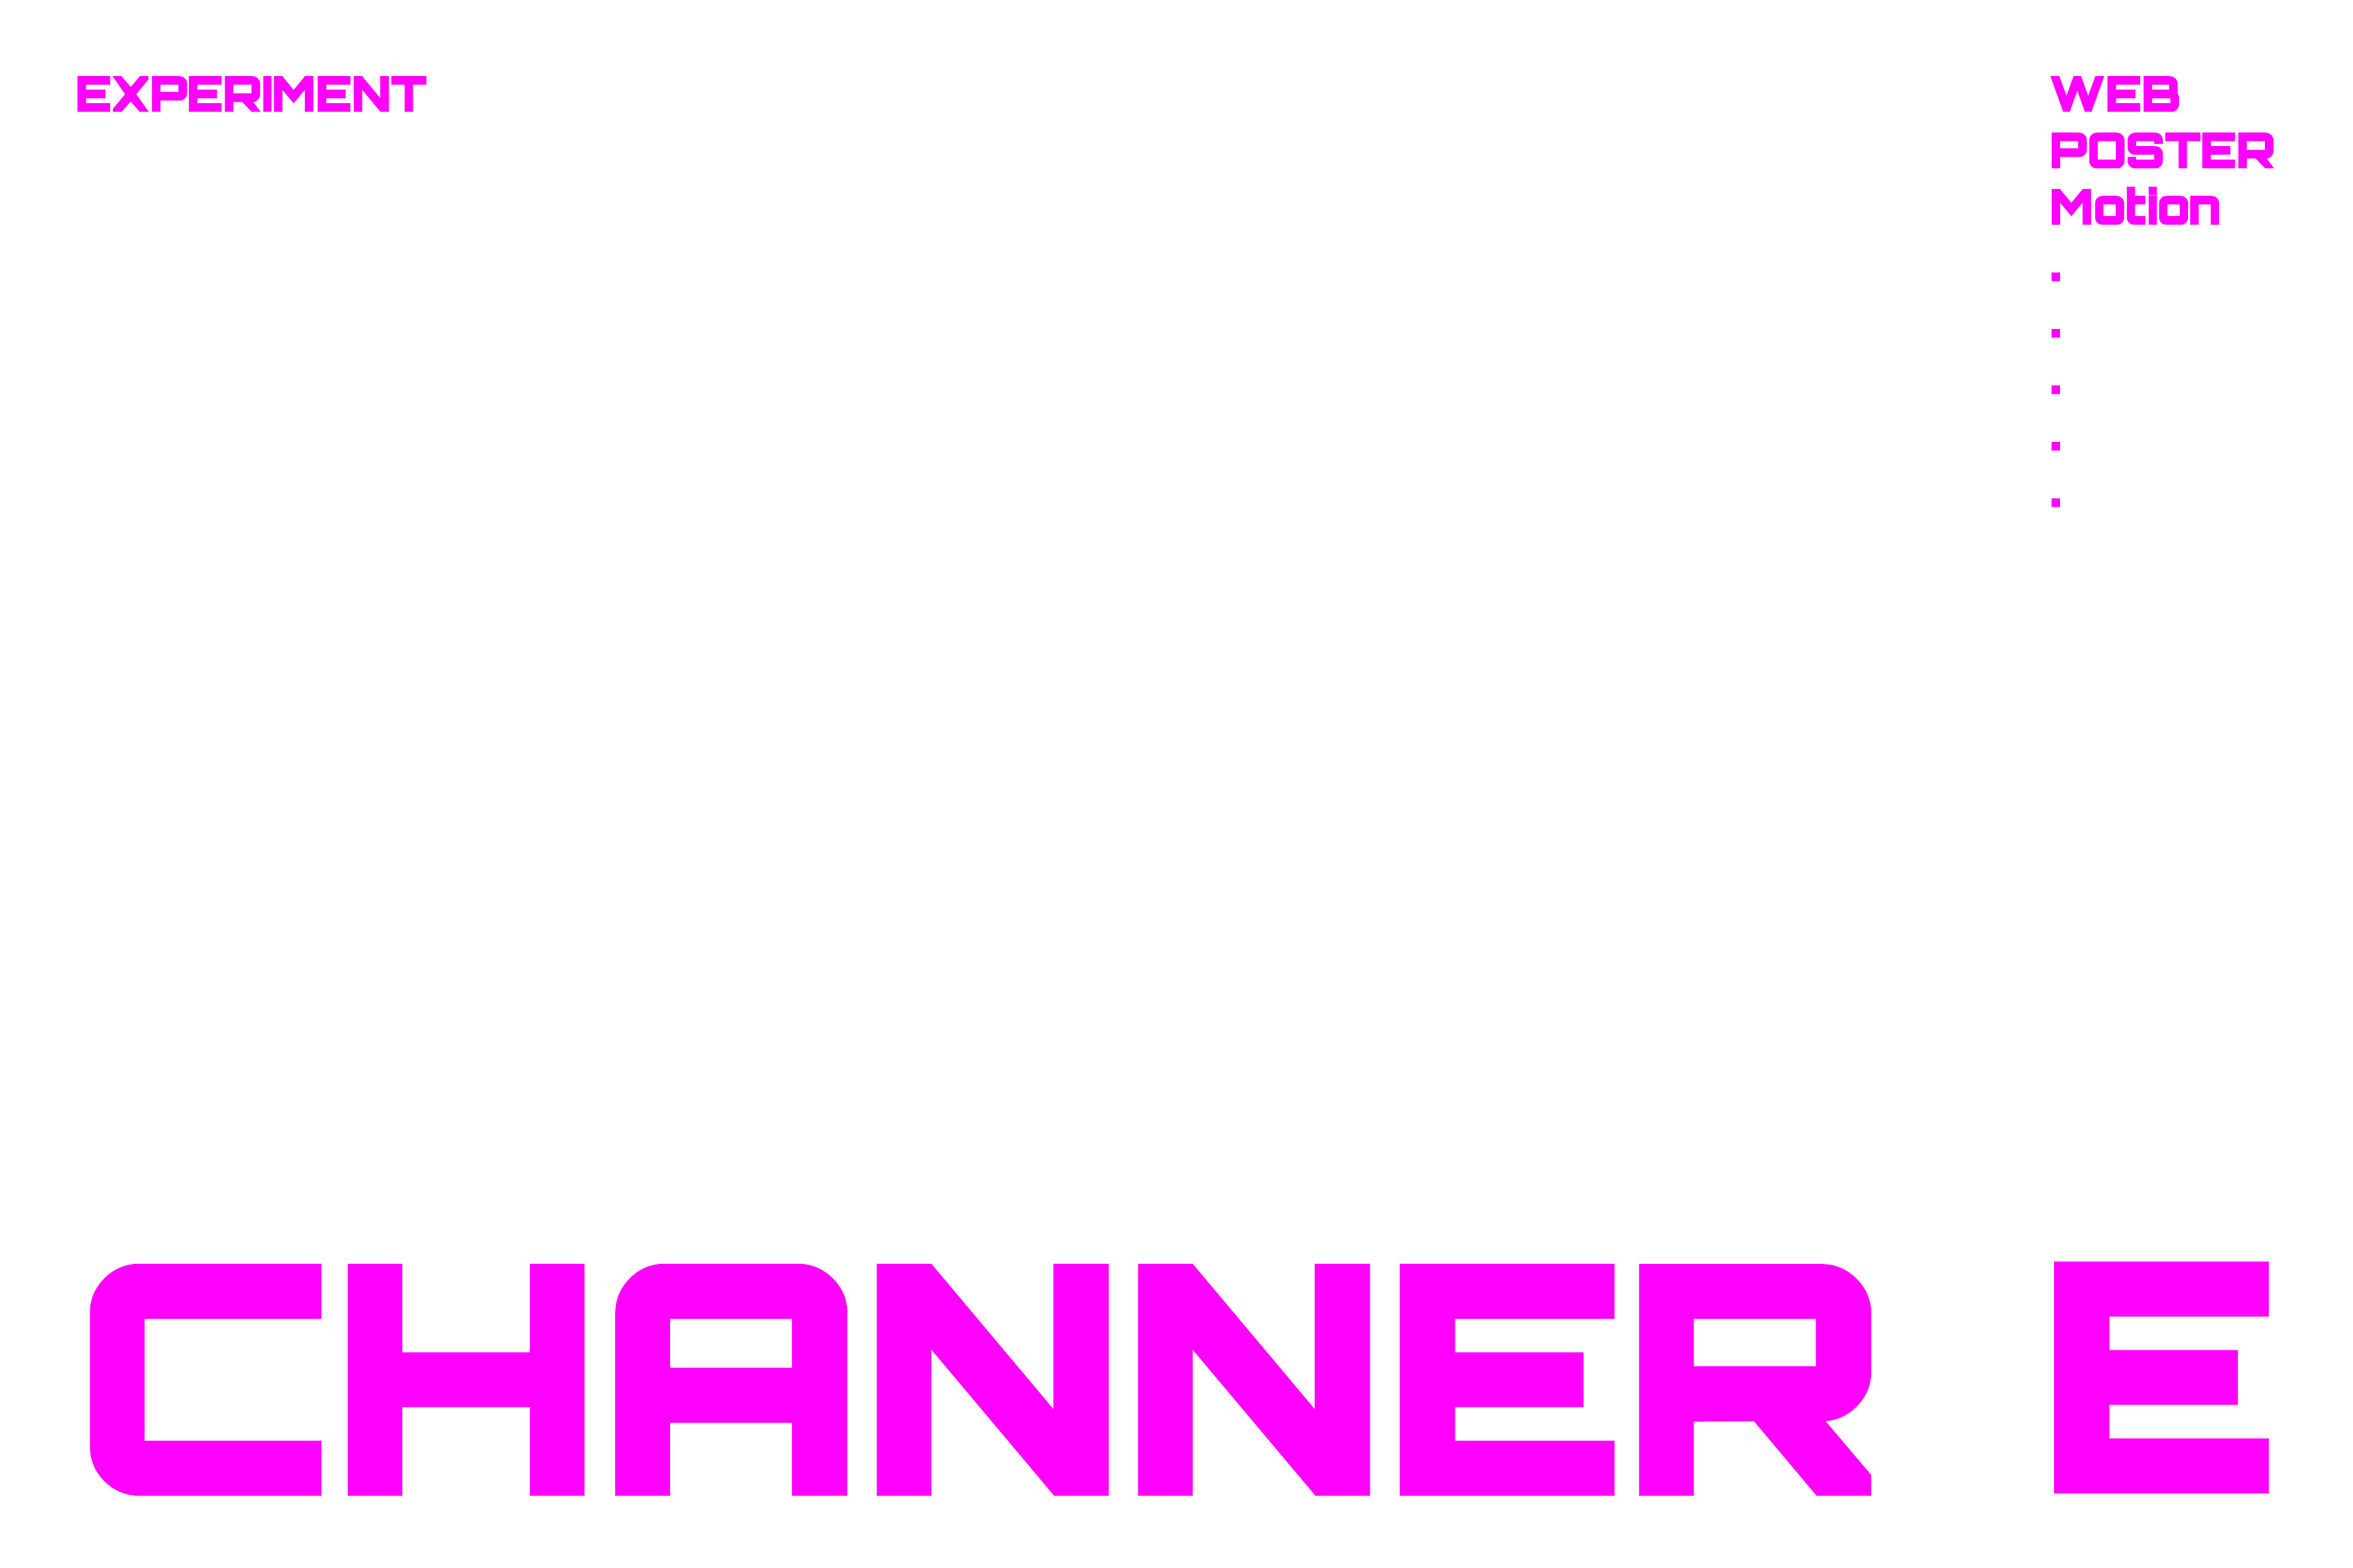
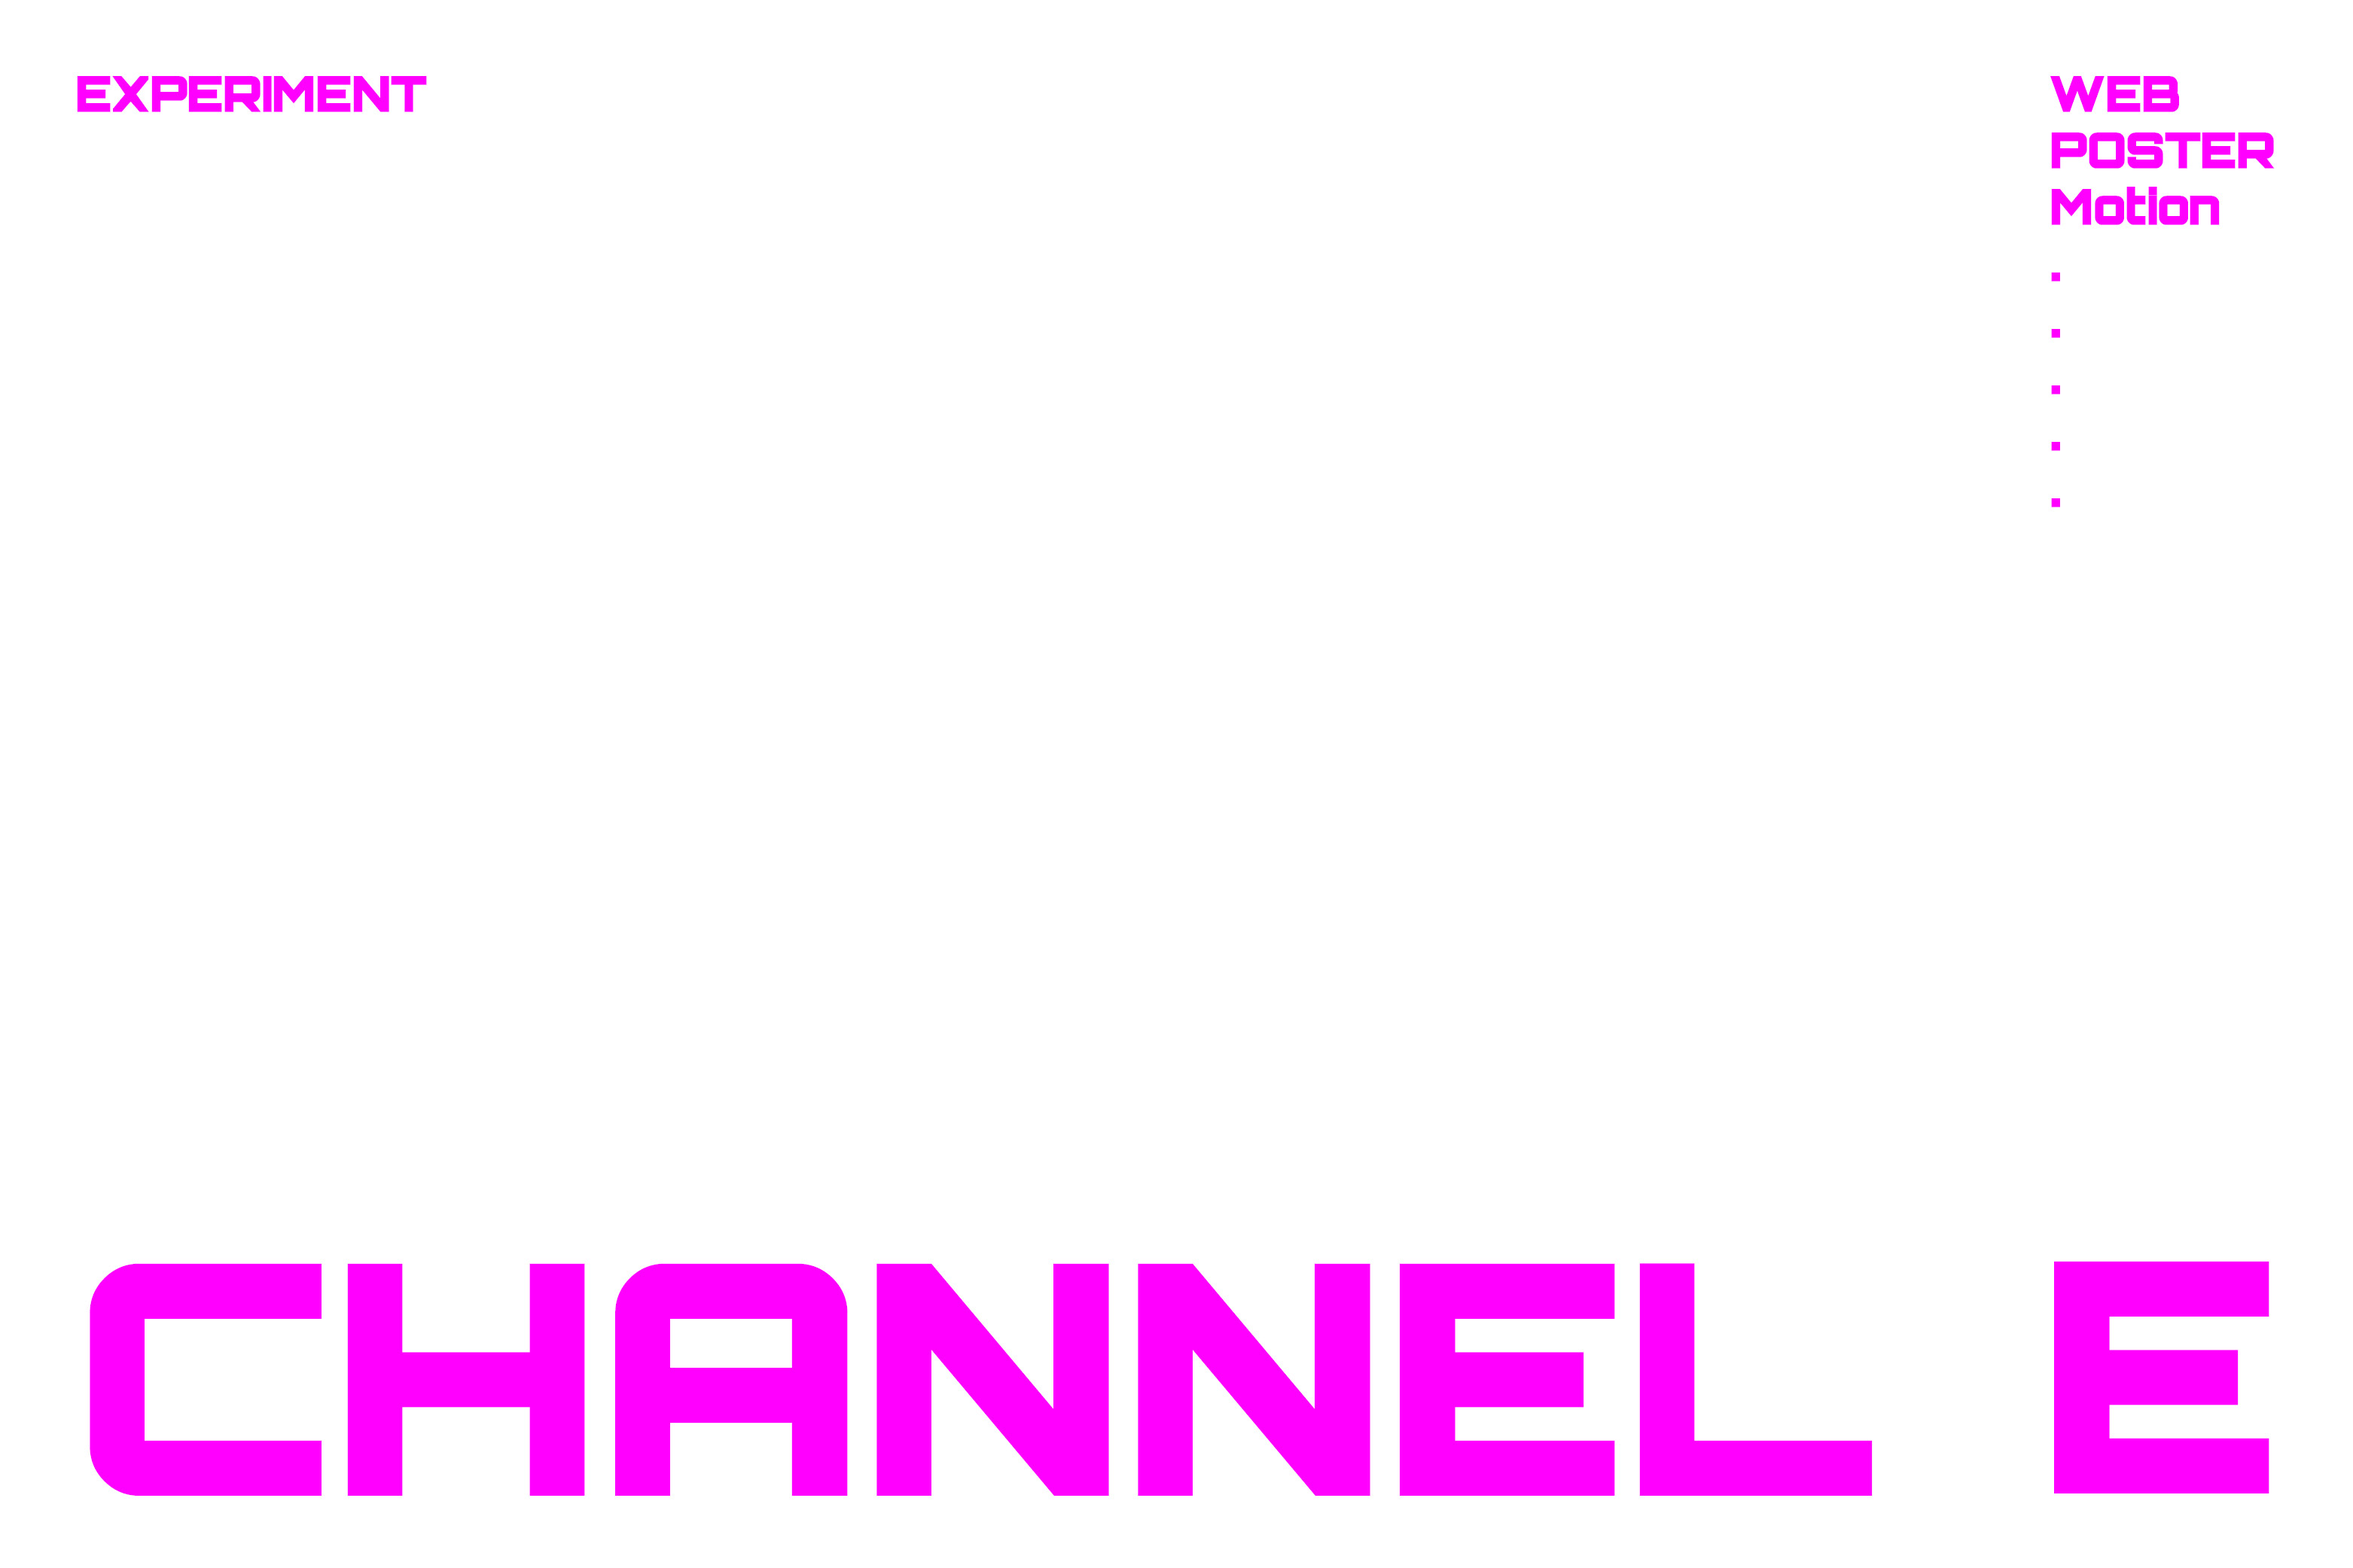
dd

Changed region(s): [[0.7139, 0.7801, 0.807, 0.9674]]

diff --git a/newpage.html b/newpage.html
@@ -66,7 +66,7 @@
                 <a href="https://www.instagram.com/hyees2/">Instagram</a><br>
                 <a href="https://www.linkedin.com/in/yejin-her/">LinkedIn</a>
                 <br><br>
-                <a href="newpage.html" style="color: rgb(255, 0, 204);">Channel B</a>
+                <a href="newpage.html" style="color: rgb(255, 0, 204);">CHANNEL E</a>
             </p>
         </nav>
 
@@ -85,7 +85,7 @@
                             </p>
 
                             <p class="project-thumbnail-info-description" style="color: rgb(78, 78, 78);">
-                              Channel E is a collection of experimental design work across graphic design, motion, web, and various other creative fields.                         
+                                CHANNEL E is a collection of experimental design work across graphic design, motion, web, and various other creative fields.                         
                                 </section>
 
                         

diff --git a/work/project-title-z/index.html b/work/project-title-z/index.html
@@ -55,14 +55,14 @@
         <main class="column-grid column-grid-9">
             <section class="project-info column-small stick-to-top">
                 <h1 class="project-info-name" style="color: rgb(255, 0, 204);">
-                    Channel E 
+                    CHANNEL E 
                 </h1>
 
                 <p class="project-info-metadata">
                 </p>
 
                 <p class="project-info-description" style="color: rgb(78, 78, 78);">
-                    Channel E is a collection of experimental design work across graphic design, motion, web, and various other creative fields.                         
+                    CHANNEL E is a collection of experimental design work across graphic design, motion, web, and various other creative fields.                         
                 </section>
                     
             <section class="project-media column-large">

diff --git a/index.html b/index.html
@@ -65,7 +65,7 @@
                 <a href="https://www.instagram.com/hyees2/">Instagram</a><br>
                 <a href="https://www.linkedin.com/in/yejin-her/">LinkedIn</a>
                 <br><br>
-                <a href="newpage.html" style="color: rgb(255, 0, 204);">Channel E</a>
+                <a href="newpage.html" style="color: rgb(255, 0, 204);">CHANNEL E</a>
             </p>
         </nav>
 
